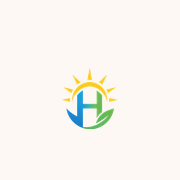
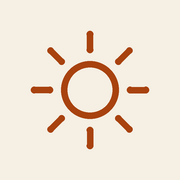
Six points fermes, dont les entreprises qu'Helios inventait
SIX POINTS DE TODO.md PASSENT A [x], chacun verifie dans le code ou dans la base
servie. Quatre venaient d'un arbitrage de Stephane, deux etaient des defauts.

POINT 3, LES ENTREPRISES INVENTEES. C'etait le quatrieme point bloquant avant
mise en ligne. `seed_partenaires.py` n'active plus que les CINQ societes reelles
(`REELS`) et laisse les 92 autres en `en_attente` — statut que l'annuaire public
(`routers/partners.py`) et le chat (`routers/chat.py`) filtrent deja tous les
deux. Helios ne nomme donc plus que de vraies entreprises.

IL Y EN AVAIT QUATRE DE PLUS QUE PREVU, et le seed ne pouvait pas les voir :
« Armor Solaire » et « Armor Thermique », restes d'un nommage abandonne
(remplace depuis par Iroise et Brocéliande), puis « Solaris Renov » et
« Courtage Energie Pro », partenaires de test du jalon 8. Tous actifs, tous
inventes, tous nommes par Helios. Basculés a la main, un par un. Le script ne
les desactive PAS d'office — ce serait defaire une activation faite depuis
/admin — mais il AFFICHE desormais tout partenaire actif qu'il ne connait pas,
pour que le trou ne se reforme pas en silence. Verifie en base : 5 actifs,
92 en attente, et le seed relance ne reactive rien.

POINT 6, LA TVA DE L'INERTIE, tranchee a 5,5 % par Stephane. Le reglage
`simu_inertie_tva_pct` etait MORT : le moteur prenait `simu_inertie_cout_ttc_eur`
= 8500 tel quel et ne lisait jamais le taux, donc changer le seul taux n'aurait
[…]

diff --git a/frontend/src/components/simulateur/ReglageEquipement.tsx b/frontend/src/components/simulateur/ReglageEquipement.tsx
@@ -343,8 +343,8 @@ export default function ReglageEquipement({ id, config, resultat, majConfig }: P
             <li>· Démarches d’urbanisme simples — une déclaration suffit.</li>
           </ul>
           <p className="text-sm text-dark/60">
-            {resultat ? `${resultat.stockage.inertie.cout_ttc_eur.toLocaleString('fr-FR')} € TTC` : '8 500 € TTC'},
-            pose comprise, TVA 20 % incluse.
+            {resultat ? `${resultat.stockage.inertie.cout_ttc_eur.toLocaleString('fr-FR')} € TTC` : '7 473 € TTC'},
+            pose comprise, TVA 5,5 % incluse.
           </p>
         </>
       )

diff --git a/frontend/src/pages/EspaceEnergie.tsx b/frontend/src/pages/EspaceEnergie.tsx
@@ -314,7 +314,7 @@ export default function EspaceEnergie() {
                       className="w-full rounded-lg border border-gray-300 px-3 py-2 text-sm">
                       <option value="">— indifférent —</option>
                       <option value="base">Base</option>
-                      <option value="hphc">Heures pleines / creuses</option>
+                      <option value="HPHC">Heures pleines / creuses</option>
                       <option value="tempo">Tempo</option>
                     </select>
                   </div>

diff --git a/frontend/scripts/brand_assets.py b/frontend/scripts/brand_assets.py
@@ -1,0 +1,147 @@
+r"""Produit les images de marque a partir de la charte « carnet de maison ».
+
+    api\.venv\Scripts\python.exe frontend/scripts/brand_assets.py
+
+Pourquoi un script et non des fichiers deposes a la main : la refonte du 30/09/2026 a
+change le site entier mais PAS les PNG, qui sont restes a l'ancienne charte orange
+pendant six jours sans que rien ne le signale (point 16 de TODO.md). Un dessin qui se
+regenere suit la charte ; un fichier binaire, non.
+
+Le dessin est le meme soleil au trait que `src/components/MarqueHelios.tsx` et
+`public/favicon.svg` : huit rayons et un disque, dans un repere de 32 unites. Il est
+RECOPIE ici plutot qu'importe — un script Python ne lit pas un composant React — donc
+**si le dessin change la-bas, il change ici**. C'est la seule duplication du fichier.
+
+Le trace passe par un sur-echantillonnage x4 puis une reduction : Pillow ne lisse pas
+les bords, et un rayon de 1 px non lisse se voit a toutes les tailles.
+"""
+
+from __future__ import annotations
+
+import math
+from pathlib import Path
+
+from PIL import Image, ImageDraw, ImageFont
+
+RACINE = Path(__file__).resolve().parents[1]
+PUBLIC = RACINE / "public"
+POLICES = PUBLIC / "fonts"
+
+# Les jetons de `src/index.css`, en RVB. Ils se tiennent a jour ENSEMBLE (cf. CLAUDE.md).
+TERRACOTTA = (168, 66, 15)      # --h-accent
+SABLE = (245, 239, 228)         # --h-sable
+BORD = (226, 216, 198)          # --h-bord
+INK = (27, 42, 47)              # --h-ink
+TEXTE_2 = (74, 90, 95)          # --h-texte-2
+
+SUR = 4  # facteur de sur-echantillonnage
+
+# Geometrie du soleil, dans le repere de 32 unites du SVG.
+CENTRE = 16.0
+RAYON_DISQUE = 6.6
+RAYON_INTERIEUR = 9.2    # debut d'un rayon (y = 6.8 dans le SVG)
+RAYON_EXTERIEUR = 12.8   # fin d'un rayon (y = 3.2)
+ENVERGURE = 2 * RAYON_EXTERIEUR / 32  # le soleil occupe 80 % du repere
+
+
+def _dessiner_soleil(d: ImageDraw.ImageDraw, cx: float, cy: float, cote: float,
+                     couleur: tuple[int, int, int], epaisseur_svg: float = 1.5) -> None:
+    """Pose le soleil centre sur (cx, cy), le repere de 32 unites tenant dans `cote`."""
+    echelle = cote / 32
+    trait = max(epaisseur_svg * echelle, 1.0)
+    rayon_cap = trait / 2
+
+    for i in range(8):
+        angle = math.radians(i * 45 - 90)  # -90 : le premier rayon pointe vers le haut
+        dx, dy = math.cos(angle), math.sin(angle)
+        x1, y1 = cx + dx * RAYON_INTERIEUR * echelle, cy + dy * RAYON_INTERIEUR * echelle
+        x2, y2 = cx + dx * RAYON_EXTERIEUR * echelle, cy + dy * RAYON_EXTERIEUR * echelle
+        d.line((x1, y1, x2, y2), fill=couleur, width=round(trait))
+        # Les bouts ronds du SVG (`stroke-linecap="round"`) : Pillow ne les fait pas.
+        for x, y in ((x1, y1), (x2, y2)):
+            d.ellipse((x - rayon_cap, y - rayon_cap, x + rayon_cap, y + rayon_cap), fill=couleur)
+
+    r = RAYON_DISQUE * echelle
+    d.ellipse((cx - r, cy - r, cx + r, cy + r), outline=couleur, width=round(trait))
+
+
+def _toile(largeur: int, hauteur: int, fond: tuple[int, int, int] | None) -> Image.Image:
+    """Une toile sur-echantillonnee, transparente ou remplie."""
+    couleur = (*fond, 255) if fond else (0, 0, 0, 0)
+    return Image.new("RGBA", (largeur * SUR, hauteur * SUR), couleur)
+
+
+def _reduire(im: Image.Image, largeur: int, hauteur: int) -> Image.Image:
+    return im.resize((largeur, hauteur), Image.LANCZOS)
+
+
+def icone(cote: int, fond: tuple[int, int, int] | None, occupation: float,
+          epaisseur_svg: float = 1.5) -> Image.Image:
+    """Une icone carree. `occupation` = part du cote occupee par le soleil (sans le fond)."""
+    im = _toile(cote, cote, fond)
+    d = ImageDraw.Draw(im)
+    milieu = cote * SUR / 2
+    _dessiner_soleil(d, milieu, milieu, cote * SUR * occupation / ENVERGURE, TERRACOTTA, epaisseur_svg)
+    return _reduire(im, cote, cote)
+
+
+def _police(fichier: str, taille: int) -> ImageFont.FreeTypeFont:
+    return ImageFont.truetype(str(POLICES / fichier), taille)
+
+
+def _centrer(d: ImageDraw.ImageDraw, texte: str, police: ImageFont.FreeTypeFont,
+             milieu_x: float, y: float, couleur: tuple[int, int, int]) -> None:
+    d.text((milieu_x, y), texte, font=police, fill=couleur, anchor="mt")
+
+
+def image_de_partage() -> Image.Image:
+    """L'apercu 1200x630 des reseaux et des messageries — l'image la plus vue du site."""
+    L, H = 1200, 630
+    im = _toile(L, H, SABLE)
+    d = ImageDraw.Draw(im)
+
+    # Le filet de la charte : les surfaces du site se detachent par une bordure 1px,
+    # jamais par une ombre. A l'echelle de l'image, 2 px.
+    marge = 28 * SUR
+    d.rectangle((marge, marge, L * SUR - marge, H * SUR - marge), outline=(*BORD, 255), width=2 * SUR)
+
+    milieu = L * SUR / 2
+    _dessiner_soleil(d, milieu, 160 * SUR, 150 * SUR / ENVERGURE, TERRACOTTA, epaisseur_svg=1.5)
+
+    _centrer(d, "Helios", _police("instrument-serif-latin.woff2", 128 * SUR), milieu, 250 * SUR, INK)
+    _centrer(d, "La maison a enfin son expert",
+             _police("instrument-serif-italic-latin.woff2", 54 * SUR), milieu, 404 * SUR, TERRACOTTA)
+    _centrer(d, "Diagnostic énergétique indépendant · gratuit · à votre rythme",
+             _police("jakarta-latin.woff2", 27 * SUR), milieu, 500 * SUR, TEXTE_2)
+
+    return _reduire(im, L, H)
+
+
+def main() -> None:
+    sorties: list[tuple[Path, Image.Image]] = [
+        # Le repli du favicon SVG, pour les navigateurs anciens : meme fond transparent et
+        # meme trait epaissi que `public/favicon.svg`, ou a 16 px un trait de 1,5 disparait.
+        (PUBLIC / "favicon-32.png", icone(32, None, ENVERGURE, epaisseur_svg=2.0)),
+        # iOS ne pose aucun fond derriere l'icone : il lui en faut un.
+        (PUBLIC / "apple-touch-icon.png", icone(180, SABLE, 0.62)),
+        (PUBLIC / "icon-192.png", icone(192, SABLE, 0.62)),
+        (PUBLIC / "icon-512.png", icone(512, SABLE, 0.62)),
+        # « maskable » : Android recadre jusqu'a un cercle de 80 % du cote. Le dessin tient
+        # donc dans 45 %, et le fond va d'un bord a l'autre.
+        (PUBLIC / "icon-maskable-512.png", icone(512, SABLE, 0.45)),
+        # Le bandeau du PDF de pre-audit (`api/app/services/pdf_audit.py`), pose sur un
+        # fond creme : transparent, carre, et c'est le seul usage de ce fichier.
+        (PUBLIC / "brand" / "logo-mark.png", icone(512, None, 0.92)),
+        (PUBLIC / "og-image.png", image_de_partage()),
+    ]
+
+    for chemin, image in sorties:
+        if chemin.name == "og-image.png":
+            image = image.convert("RGB")  # pas de transparence : certains clients la noircissent
+        image.save(chemin, optimize=True)
+        print(f"  {chemin.relative_to(RACINE)}  {image.size[0]}x{image.size[1]}  "
+              f"{chemin.stat().st_size // 1024} Ko")
+
+
+if __name__ == "__main__":
+    main()

diff --git a/api/app/core/config.py b/api/app/core/config.py
@@ -120,7 +120,11 @@ class Settings(BaseSettings):
     # Ce que l'offre est : rien à installer chez soi, un abonnement proportionnel à la
     # puissance posée, et le TRANSPORT de l'énergie restituée qui reste dû au kWh. Nécessite
     # de souscrire l'électricité chez mylight150 — contrainte réelle, jamais masquée.
-    mylight_activation_eur: float = 179.0               # À CONFIRMER : absent de la grille publique
+    # Frais d'activation du compte MyLight, commun aux DEUX offres de stockage virtuel
+    # (« sur-mesure » et « illimite ») : 279 EUR, confirme par Stephane le 06/10/2026.
+    # Un seul reglage, volontairement : deux valeurs ont coexiste ici (179 et 279) sans
+    # qu'on sache laquelle etait la bonne, et c'est exactement ce qu'il ne faut pas.
+    mylight_activation_eur: float = 279.0
     mylight_abonnement_eur_par_kwc_mois: float = 1.20   # TTC, par kWc installé
     # Le kWh restitué se paie en trois morceaux. Le total annoncé par la grille (0,10862) est
     # exactement leur somme — `test_batterie_virtuelle.py` le vérifie, pour qu'une correction
@@ -159,7 +163,11 @@ class Settings(BaseSettings):
     simu_panneaux_max: int = 40                     # borne haute du simulateur
     simu_carport_pente_deg: int = 5                 # carport : faible inclinaison, plein sud
     simu_carport_cout_par_panneau_eur: int = 250    # structure seule, hors panneau (a calibrer)
-    simu_carport_tva_pct: float = 20.0              # carport a 20 % par defaut (A CONFIRMER)
+    # 20 % sur la STRUCTURE, tranche par Stephane le 06/10/2026. La partie solaire du
+    # carport, elle, est a 5,5 % — et elle l'est deja : ses panneaux entrent dans le kWc
+    # total (`_kwc_total`) et sont factures sur la ligne photovoltaique, au taux du
+    # projet. Cette ligne-ci ne porte donc que l'acier et la pose, d'ou le taux plein.
+    simu_carport_tva_pct: float = 20.0
 
     # --- Prix de l'electricite (TRV option Base au 1er aout 2026, verifie) ---
     # Le prix du kWh depend de la puissance souscrite : 0,2001 jusqu'a 6 kVA, 0,1985 des 9 kVA.
@@ -238,15 +246,24 @@ class Settings(BaseSettings):
     # La garantie de 40 ans depasse la duree de l'etude : contrairement au lithium, aucun
     # remplacement n'est compte sur les 25 ans. C'est la difference economique qui compte.
     #
-    # A CONFIRMER, deux points qui changent le resultat :
-    #   - le rendement aller-retour, suppose egal a celui du lithium faute de donnee ;
-    #   - le traitement fiscal : l'outil suppose qu'un stockage par inertie est une
-    #     batterie au sens de la TVA, et fait donc basculer le projet a 20 % comme le
-    #     lithium. Si l'administration en decide autrement, c'est ici qu'il faut revenir.
+    # A CONFIRMER, le rendement aller-retour, suppose egal a celui du lithium faute de
+    # donnee constructeur. Il commande directement l'autonomie annoncee.
+    #
+    # DEUX QUESTIONS FISCALES DISTINCTES, NE PAS LES CONFONDRE :
+    #   1. le taux qui porte le stockage lui-meme : 5,5 %, tranche par Stephane le
+    #      06/10/2026 (il etait suppose a 20 % depuis l'origine) ;
+    #   2. le taux qui porte LE RESTE du projet quand on ajoute de l'inertie : l'outil
+    #      suppose toujours qu'une inertie est une batterie au sens de la condition des
+    #      5,5 % et bascule donc le photovoltaique a 20 % (`investissement()`). Cette
+    #      seconde question n'est PAS tranchee, et elle pese bien plus lourd que la
+    #      premiere : sur un projet de 6 kWc elle deplace plusieurs milliers d'euros.
     simu_inertie_capacite_kwh: float = 10.0
     simu_inertie_puissance_kw: float = 6.0
-    simu_inertie_cout_ttc_eur: int = 8500
-    simu_inertie_tva_pct: float = 20.0
+    # Le devis Energiesto connu est un prix TTC de 8 500 EUR, TVA 20 % comprise. On garde
+    # le HT qu'il contient (8500 / 1,20) et c'est le moteur qui pose le taux : le jour ou
+    # la question 2 se tranche, il n'y a qu'un nombre a bouger, pas une regle de trois.
+    simu_inertie_cout_ht_eur: int = 7083
+    simu_inertie_tva_pct: float = 5.5
     simu_inertie_garantie_ans: int = 40
 
     # --- Recherche de la meilleure taille ---
@@ -287,7 +304,7 @@ class Settings(BaseSettings):
     # Ce que l'offre est : on LOUE UN VOLUME annuel. L'abonnement est tout compris et le
     # transport n'est PAS facture en plus, contrairement au stockage illimite. C'est ce qui
     # en fait le bon choix dans la quasi-totalite des cas (cf. batterie_virtuelle.py).
-    simu_msb_activation_eur: float = 279.0   # A CONFIRMER : absent de la grille publique
+    # (l'activation est commune aux deux offres : voir `mylight_activation_eur`)
     # Le coffret MyLight a poser chez le client, ordre de grandeur donne par Stephane le
     # 28/09/2026. C'est la seule des deux offres qui demande du materiel : le stockage
     # illimite n'en pose aucun, il ne coute que ses frais d'activation.

diff --git a/api/scripts/seed_partenaires.py b/api/scripts/seed_partenaires.py
@@ -5,11 +5,17 @@ present plutot que de le dupliquer. La raison sociale sert de cle.
 
     .venv\Scripts\python.exe -m scripts.seed_partenaires
 
-ATTENTION — LES PARTENAIRES ISOLATION SONT DES NOMS PROVISOIRES. Stephane a demande de
-remplir la colonne avec des noms quelconques en attendant les vrais. Ces treize
-entreprises N'EXISTENT PAS. Elles doivent etre remplacees avant toute mise en relation
-reelle : envoyer un client chez une societe inventee serait pire que de ne rien proposer.
-Elles sont regroupees ci-dessous pour qu'on les trouve d'un coup d'oeil.
+ATTENTION — LA PLUPART DE CES RAISONS SOCIALES SONT PROVISOIRES. Stephane a demande de
+remplir l'annuaire avec des noms quelconques en attendant les vrais. Ces entreprises
+N'EXISTENT PAS : les treize isolations, les soixante-dix-huit renforts et le courtier.
+Seules cinq sont reelles (AD Solar, Ensol, Hydrolia, Eolia, Energiesto).
+
+C'est pourquoi le seed ne les active PAS : elles entrent en `en_attente`, statut que
+l'annuaire public filtre et que `routers/chat.py` ne donne pas au modele. Helios ne nomme
+donc que les vraies, et dit franchement qu'il n'a pas encore de partenaire dans la region
+— ce qui vaut mieux qu'envoyer un client chez une societe inventee, ou que de faire
+decouvrir a une vraie societe homonyme qu'elle est « partenaire HELIOS ». On les repasse
+en `actif` une par une, a la signature.
 """
 
 import asyncio
@@ -110,6 +116,11 @@ PARTENAIRES: dict[str, tuple[tuple[str, ...], tuple[str, ...], bool]] = {
     **_renforts(),
 }
 
+#: Les cinq entreprises reelles. Tout le reste de `PARTENAIRES` est provisoire et reste
+#: `en_attente` jusqu'a signature. Liste en dur et non deduite : une raison sociale qui
+#: n'y figure pas est inventee par defaut, ce qui est le sens prudent de l'erreur.
+REELS: frozenset[str] = frozenset({"AD Solar", "Ensol", "Hydrolia", "Eolia", "Energiesto"})
+
 
 async def semer() -> None:
     async with async_session() as db:
@@ -123,11 +134,28 @@ async def semer() -> None:
             partenaire.zones = list(zones)
             partenaire.metiers = list(metiers)
             partenaire.rge = rge
-            partenaire.statut = "actif"
+            partenaire.statut = "actif" if raison_sociale in REELS else "en_attente"
         await db.commit()
 
-        total = len(list(await db.scalars(select(Partner).where(Partner.statut == "actif"))))
-        print(f"{len(PARTENAIRES)} partenaires semes, {total} actifs dans l'annuaire.")
+        actifs = list(await db.scalars(select(Partner).where(Partner.statut == "actif")))
+        provisoires = len(PARTENAIRES) - len(REELS)
+        print(
+            f"{len(PARTENAIRES)} partenaires semes ({provisoires} provisoires laisses "
+            f"en attente), {len(actifs)} actifs dans l'annuaire."
+        )
+
+        # Le seed ne connait que SES lignes. Des partenaires actifs peuvent venir d'ailleurs :
+        # un ancien seed, une candidature validee, un test. Le 06/10/2026 il en restait quatre,
+        # tous inventes (« Armor Solaire » et « Armor Thermique » d'un nommage abandonne,
+        # « Solaris Renov » et « Courtage Energie Pro » des tests du jalon 8) — et le chat les
+        # nommait. On ne les desactive PAS d'office, pour ne pas defaire une activation faite
+        # a la main depuis /admin ; on les affiche, pour qu'ils ne repassent pas inapercus.
+        inconnus = sorted(p.raison_sociale for p in actifs if p.raison_sociale not in REELS)
+        if inconnus:
+            print(
+                f"ATTENTION : {len(inconnus)} partenaire(s) actif(s) hors de ce script — "
+                f"verifier qu'ils existent vraiment : {', '.join(inconnus)}"
+            )
 
 
 if __name__ == "__main__":

diff --git a/api/app/services/simu_engine.py b/api/app/services/simu_engine.py
@@ -211,6 +211,16 @@ def _simuler_horaire(conso_h: list[float], prod_h: list[float], config: Configur
     )
 
 
+def _inertie_ttc() -> float:
+    """Prix pose du stockage par inertie, TVA comprise.
+
+    Son taux lui est propre (5,5 % depuis le 06/10/2026) et n'est PAS celui que
+    `investissement()` applique au reste du projet : ajouter de l'inertie fait toujours
+    basculer le photovoltaique a 20 %, hypothese prudente non tranchee (cf. `config.py`).
+    """
+    return settings.simu_inertie_cout_ht_eur * (1 + settings.simu_inertie_tva_pct / 100)
+
+
 def _kwc_total(config: Configuration) -> float:
     return (config.panneaux.nb_panneaux + config.panneaux.nb_panneaux_carport) * settings.simu_panneau_wc / 1000
 
@@ -246,8 +256,7 @@ def investissement(config: Configuration) -> dict:
     )
     batterie_ttc = batterie_ht * (1 + taux_plein / 100)
 
-    # Le stockage par inertie est donne TTC, TVA 20 % comprise : on le prend tel quel.
-    inertie_ttc = settings.simu_inertie_cout_ttc_eur if config.stockage.inertie else 0.0
+    inertie_ttc = _inertie_ttc() if config.stockage.inertie else 0.0
 
     # L'eolienne est chiffree TTC par EOLIA, TVA 20 % comprise. Elle ne change PAS le
     # taux du photovoltaique : ce sont deux installations distinctes, et la condition
@@ -628,7 +637,7 @@ def calculer(config: Configuration, profil: ProfilConso, prod_h: list[float],
                 "capacite_kwh": settings.simu_inertie_capacite_kwh if config.stockage.inertie else 0.0,
                 "puissance_kw": settings.simu_inertie_puissance_kw if config.stockage.inertie else 0.0,
                 "garantie_ans": settings.simu_inertie_garantie_ans,
-                "cout_ttc_eur": settings.simu_inertie_cout_ttc_eur,
+                "cout_ttc_eur": round(_inertie_ttc()),
             },
             "batterie_virtuelle": bilan_virtuel,
             # En marche continue la machine tourne a plein : litres et kWh sont ceux du

diff --git a/api/app/services/pdf_audit.py b/api/app/services/pdf_audit.py
@@ -9,6 +9,7 @@ from datetime import date
 from pathlib import Path
 
 from fpdf import FPDF
+from PIL import Image
 
 from app.core.config import settings
 
@@ -53,7 +54,12 @@ class _AuditPDF(FPDF):
         if _LOGO_PATH.exists():
             logo_h = 14
             self.image(str(_LOGO_PATH), x=self.l_margin, y=7, h=logo_h)
-            text_x = self.l_margin + logo_h * (1920 / 1113) + 4
+            # La marque est carree depuis la refonte (`frontend/scripts/brand_assets.py`) :
+            # on lit le rapport du fichier plutot que de le reecrire en dur, sinon le
+            # titre se decale le jour ou le dessin change de format.
+            with Image.open(_LOGO_PATH) as mark:
+                ratio = mark.width / mark.height
+            text_x = self.l_margin + logo_h * ratio + 4
         else:
             text_x = self.l_margin
 

diff --git a/api/app/schemas/energy.py b/api/app/schemas/energy.py
@@ -19,6 +19,9 @@ class CourtageRequest(BaseModel):
     offre_actuelle: str | None = Field(default=None, max_length=100)
     conso_annuelle_kwh: int | None = Field(default=None, ge=0, le=100000)
     puissance_kva: int | None = Field(default=None, ge=3, le=36)
-    option_tarifaire: Literal["base", "hphc", "tempo"] | None = None
+    option_tarifaire: Literal["base", "HPHC", "tempo"] | None = None
+    # Meme orthographe que la fiche Maison (`schemas/house.py`) : `courtage_client`
+    # retombe sur `house.option_tarifaire` quand le champ est vide, les deux valeurs
+    # finissent donc dans le meme dictionnaire. Deux casses = deux options differentes.
     montant_facture_annuelle_eur: int | None = Field(default=None, ge=0)
     pdl: str | None = Field(default=None, min_length=14, max_length=14, pattern=r"^\d{14}$")

diff --git a/api/app/services/batterie_virtuelle.py b/api/app/services/batterie_virtuelle.py
@@ -92,7 +92,7 @@ def offres() -> dict[str, Offre]:
             code="mysmartbattery",
             label="MyLight — Stockage sur-mesure",
             fournisseur_impose="mylight150",
-            activation_eur=settings.simu_msb_activation_eur,
+            activation_eur=settings.mylight_activation_eur,
             materiel_eur=settings.simu_msb_materiel_eur,
             paliers_kwh=settings.simu_msb_paliers,
             # Zéro, et ce n'est plus une hypothèse : la grille officielle du 28/09/2026 ne
